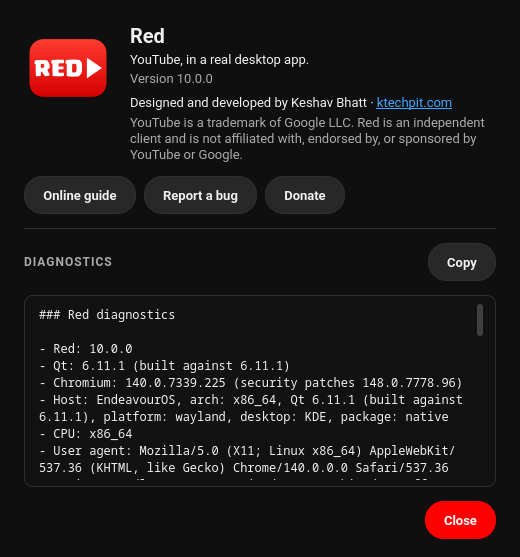
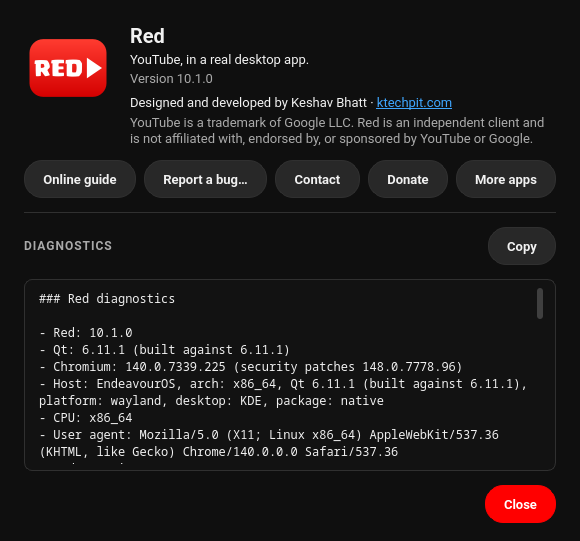
docs: screenshots retaken for 10.1.0
The rail's Music button, the Music mode tray and shortcut entries, the
About buttons and the taskbar option are on screen now; the banner gains
a Music mode pill. A grab's RED_DEBUG_WINDOW_SIZE now wins over the
remembered window geometry.

diff --git a/scripts/screenshots.py b/scripts/screenshots.py
@@ -108,7 +108,7 @@ def banner(dialog, size=(2160, 720)):
     layer = Image.new("RGBA", img.size, (0, 0, 0, 0))
     ld = ImageDraw.Draw(layer)
     x = x0
-    for pill in ("TV mode", "Ad & sponsor blocking", "Downloads", "Media keys & mini player"):
+    for pill in ("TV mode", "Music mode", "Ad & sponsor blocking", "Downloads", "Media keys"):
         tw = ld.textlength(pill, font=pf)
         ld.rounded_rectangle((x, 470, x + tw + 56, 528), radius=29, fill=(255, 255, 255, 40))
         ld.text((x + 28, 483), pill, font=pf, fill=(255, 255, 255, 255))
@@ -127,9 +127,9 @@ def main(raw):
     shots = {k: Image.open(raw / f"{k}.png") for k in
              ("desktop", "tv", "downloads", "download-dialog", "blocking")}
     plan = [
-        ("00-hero", "desktop", "YouTube, in a real desktop app", "Fast, native, ad-free — with media keys, a mini player and downloads built in."),
+        ("00-hero", "desktop", "YouTube, in a real desktop app", "Fast, native, ad-free: YouTube Music, media keys, a mini player and downloads built in."),
         ("01-tv", "tv", "Lean back", "YouTube's living-room interface, driven by keyboard, mouse or gamepad. Ctrl+T switches any time."),
-        ("02-downloads", "downloads", "Download anything", "Videos, audio, playlists and channels — queued beside the page, with your sign-in for restricted videos."),
+        ("02-downloads", "downloads", "Download anything", "Videos, audio, playlists and channels, queued beside the page, with your sign-in for restricted videos."),
         ("03-download-dialog", "download-dialog", "Video, audio, or the exact streams", "Quality presets, subtitles, chapters and cover art embedded. Playlists are detected from any link."),
         ("04-blocking", "blocking", "Ads gone, sponsors skipped", "Ads stripped before YouTube renders them, SponsorBlock per category, dislikes back, Shorts hidden."),
     ]

diff --git a/src/ui/main_window.cpp b/src/ui/main_window.cpp
@@ -338,6 +338,9 @@ void MainWindow::start(std::optional<core::AppMode> requested)
 
 void MainWindow::restoreWindowState()
 {
+    if (qEnvironmentVariableIsSet("RED_DEBUG_WINDOW_SIZE")) {
+        return; // a grab wants the size it asked for, not the remembered one
+    }
     const QByteArray geometry = m_settings.windowGeometry();
     if (!geometry.isEmpty() && !restoreGeometry(geometry)) {
         qCWarning(lcUi) << "stored window geometry rejected, using defaults";
